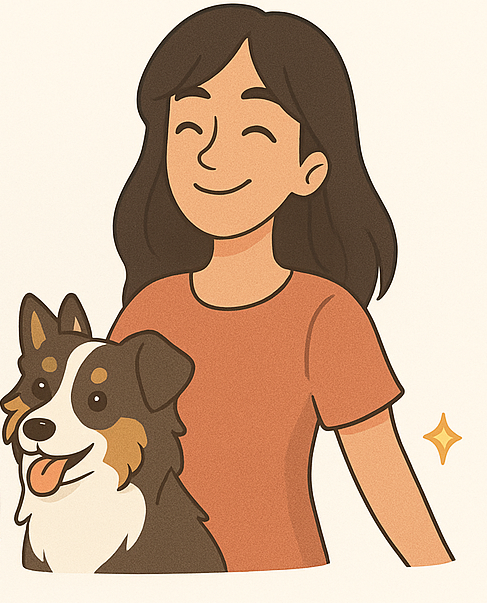
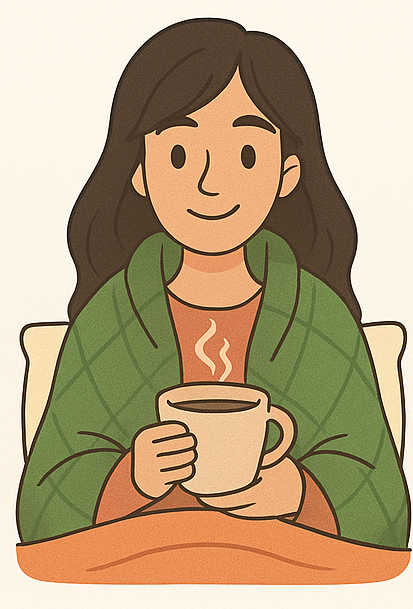
обновление

diff --git a/fairy-tail/src/LizaHealingStory.jsx b/fairy-tail/src/LizaHealingStory.jsx
@@ -6,64 +6,93 @@ import three from './assets/3.png'
 import four from './assets/4.png'
 import five from './assets/5.png'
 import six from './assets/6.png'
+import seven from './assets/7.png'
 
 export default function LizaHealingStory() {
   const [stage, setStage] = useState(0);
 
   const stages = [
     {
-      text: "Где-то в волшебной вселенной, Лиза заболела...",
+      text: "Где-то в волшебной вселенной, Лиза работала как настоящий герой…",
       image: one,
     },
     {
-      text: "Мир потускнел. Даже солнце выглядывало осторожно...",
+      text: "Но даже герои нуждаются в передышке — особенно, если они любят гулять по зимнему воздуху",
       image: two,
     },
     {
-      text: "Но где-то рядом кто-то очень её любил.",
+      text: "Наутро она проснулась с больным горлом и хриплым голосом...",
       image: three,
     },
     {
-      text: "Он согревал её заботой, чаем и самыми добрыми словами...",
+      text: "Барса, ее верная собака не отходила ни на шаг",
       image: four,
     },
     {
-      text: "И мир стал снова наполняться цветом.",
+      text: "К радости близких людей, горячий чай, плед и много любви начали творить чудеса",
       image: five,
     },
     {
-      text: "А Лиза снова улыбнулась. Потому что любовь — это лучшее лекарство.",
+      text: "Скоро Лиза снова заулыбалась",
       image: six,
+    },
+    {
+      text: "И вот она снова здорова, сияет, и мы гуляем всей нашей маленькой стаей.",
+      image: seven,
     },
   ];
 
   useEffect(() => {
     const interval = setInterval(() => {
       setStage((prev) => (prev < stages.length - 1 ? prev + 1 : prev));
-    }, 7000);
+    }, 6000);
     return () => clearInterval(interval);
   }, []);
 
+  const restartStory = () => {
+    setStage(0);
+  };
+
   return (
-    <div className="flex flex-col items-center justify-center text-center p-4">
-      <motion.img
-        key={stages[stage].image}
-        src={stages[stage].image}
-        alt="scene"
-        className="w-64 h-64 object-contain mb-6"
-        initial={{ opacity: 0, y: 20 }}
-        animate={{ opacity: 1, y: 0 }}
-        transition={{ duration: 0.8 }}
-      />
+    <div style={{display: "flex", flexDirection: "column", alignItems: "center", justifyContent: "center"}}>
+      <div style={{height: 400, borderRadius: 15}}>
+        <motion.img
+          style={{maxHeight: "100%"}}
+          key={stages[stage].image}
+          src={stages[stage].image}
+          alt="scene"
+          className="w-64 h-64 object-contain mb-6"
+          initial={{ opacity: 0, y: 20 }}
+          animate={{ opacity: 1, y: 0 }}
+          transition={{ duration: 0.8 }}
+        />
+      </div>
       <motion.p
         key={stages[stage].text}
-        className="text-xl font-medium"
+        style={{fontSize: 32, maxWidth: 600, textAlign: "center"}}
         initial={{ opacity: 0 }}
         animate={{ opacity: 1 }}
         transition={{ duration: 1 }}
       >
         {stages[stage].text}
       </motion.p>
+      {stage === stages.length - 1 && (
+        <button
+          onClick={restartStory}
+          style={{
+            marginTop: 20,
+            padding: "10px 20px",
+            fontSize: 18,
+            backgroundColor: "#4CAF50",
+            color: "white",
+            border: "none",
+            borderRadius: 5,
+            cursor: "pointer",
+          }}
+        >
+          Начать заново
+        </button>
+      )}
     </div>
   );
 }
